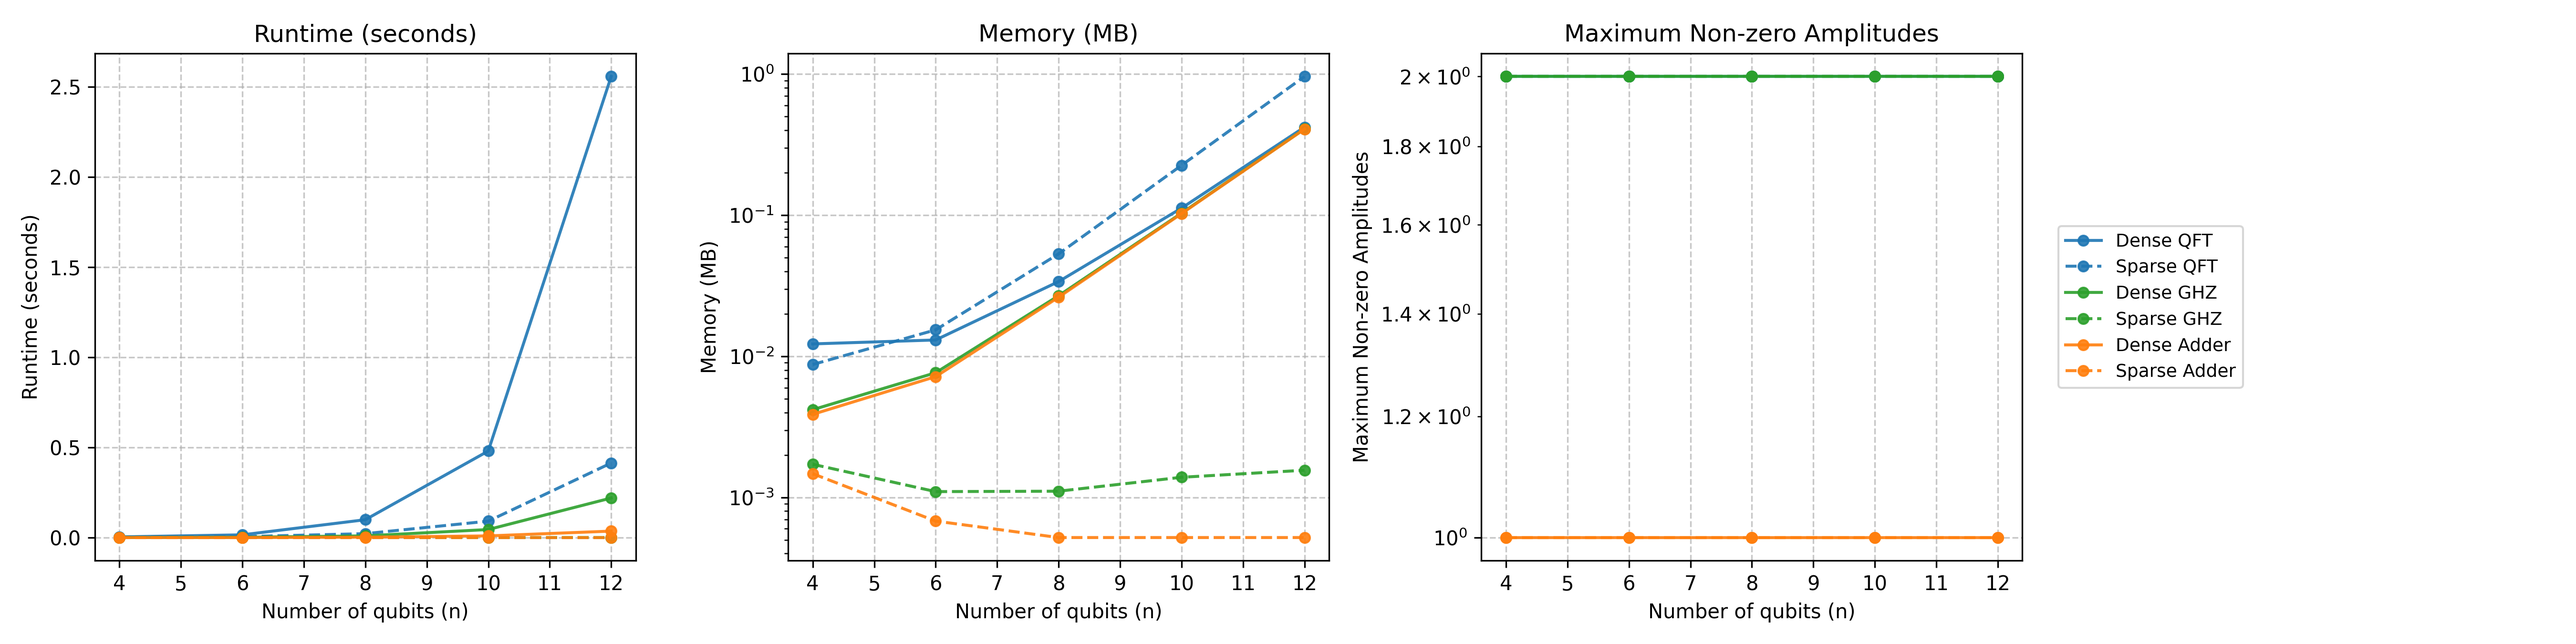
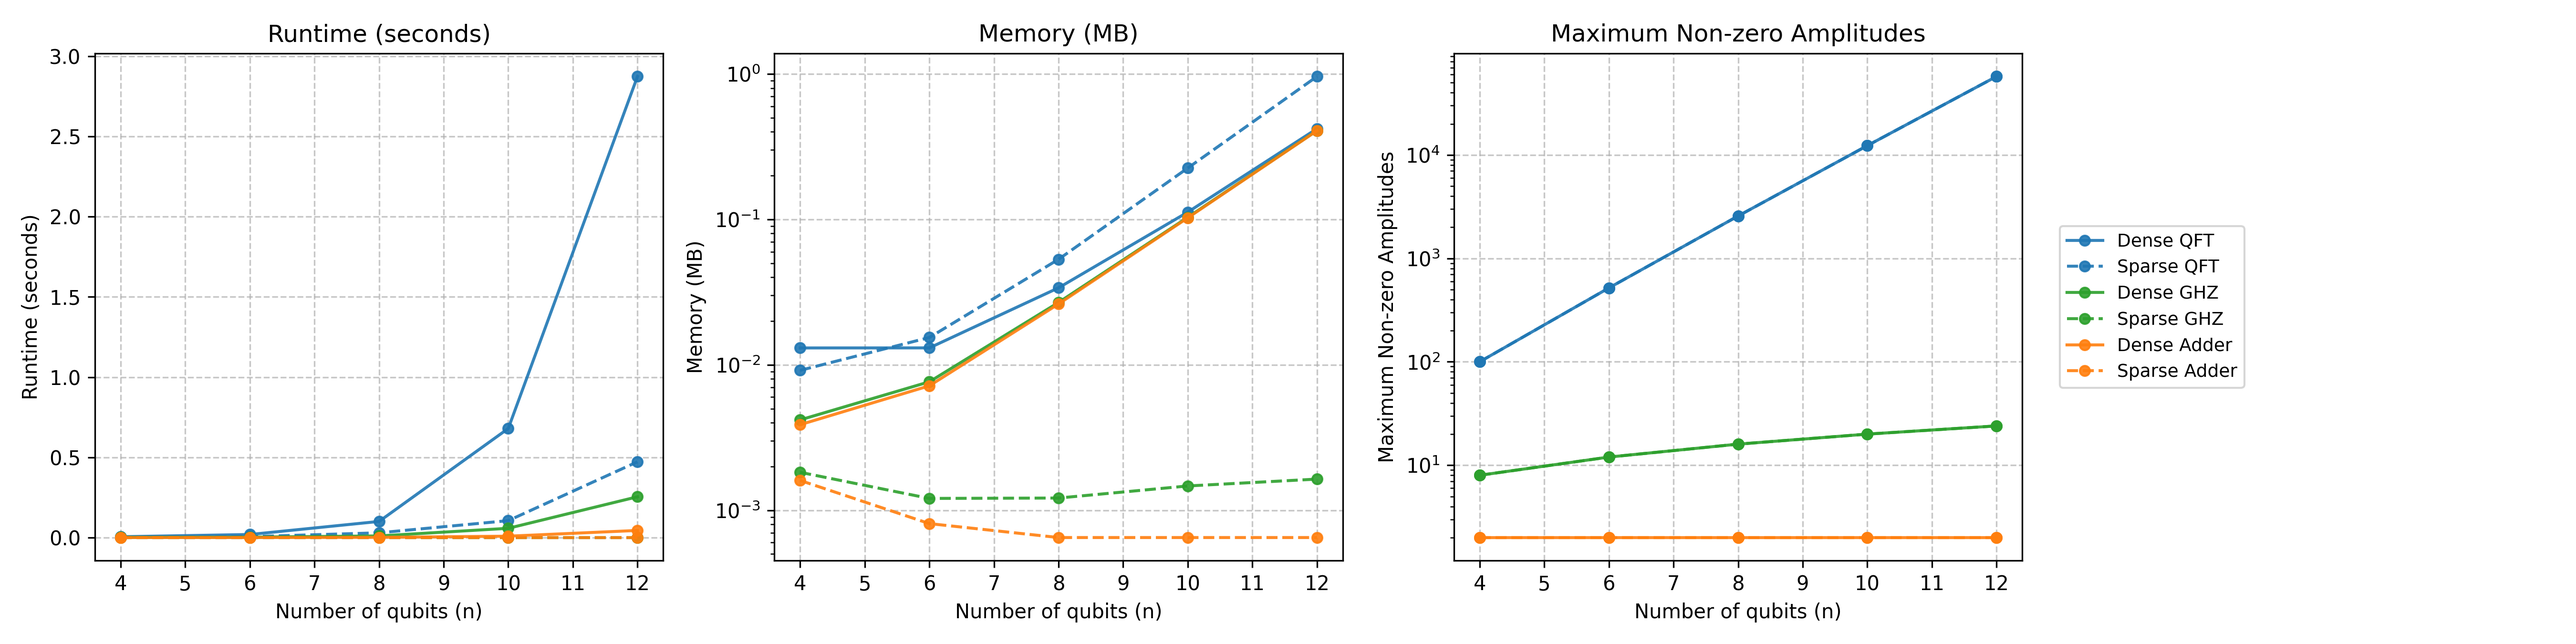
Now non zeros are fixed

diff --git a/Project/simulator.py b/Project/simulator.py
@@ -5,6 +5,12 @@ import matplotlib.pyplot as plt
 import matplotlib.patches as patches
 import random
 
+def max_nonzero_count(states):
+    if isinstance(states, dict):
+        return len([v for v in states.values() if abs(v) > 1e-12])
+    else:
+        return len([v for v in states if abs(v) > 1e-12])
+
 from gates import Gate
 
 class GenericQuantumSimulator():
@@ -22,6 +28,7 @@ class SparseQuantumSimulator(GenericQuantumSimulator):
 
     def __init__(self, number_qubits:int = 5, states: dict[int,complex] =None):
         self.n = number_qubits
+        self.non_zero_counts=0
 
         if states is not None:
             if not isinstance(states, dict):
@@ -63,6 +70,7 @@ class SparseQuantumSimulator(GenericQuantumSimulator):
             gate.apply(self)
             filename = f"sparse_{i}"
             i += 1
+            self.non_zero_counts+=max_nonzero_count(self.states)
             #self.circ_plot(filename=filename)
 
 
@@ -129,6 +137,7 @@ class DenseQuantumSimulator(GenericQuantumSimulator):
     def __init__(self, number_qubits: int = 5, states: np.ndarray = None):
         self.n = number_qubits
         self.dim = 2 ** self.n
+        self.non_zero_counts=0
 
         if states is not None:
             states = np.asarray(states, dtype=np.complex128)
@@ -156,6 +165,8 @@ class DenseQuantumSimulator(GenericQuantumSimulator):
     def apply_circuit(self, circuit: list):
         for i, gate in enumerate(circuit):
             gate.apply(self)
+            self.non_zero_counts+=max_nonzero_count(self.states)
+
             # optional: self.circ_plot(filename=f"dense_{i}")
 
     def norm(self):

diff --git a/Project/circuit.py b/Project/circuit.py
@@ -158,7 +158,7 @@ def Evaluate(Sim_class, n_list=[8,10,12], circuit_method=None):
         t1 = time.time()
         mem = tracemalloc.get_traced_memory()[1] / (1024**2)  # MB
         tracemalloc.stop()
-        nz = max_nonzero_count(sim.states)
+        nz = sim.non_zero_counts
         runtime = t1 - t0
         results[m] = {"runtime": runtime, "memory": mem, "max_nonzero_count": nz}
     return results
@@ -174,7 +174,7 @@ def EvaluateSwapTest(Sim_class, n_list=[8,10,12]):
         t1 = time.time()
         mem = tracemalloc.get_traced_memory()[1] / (1024**2)  # MB
         tracemalloc.stop()
-        nz = max_nonzero_count(sim.states)
+        nz = sim.non_zero_counts
         runtime = t1 - t0
         results[m] = {"runtime": runtime, "memory": mem, "max_nonzero_count": nz}
     return results
